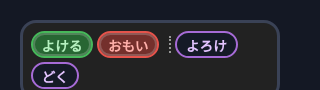
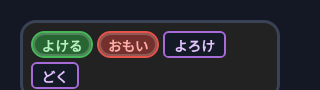
remake：点線の すきま を やめ、パーツから 来た バッジは 角を 四角く（確認役：点線が 行の 頭に 出る・1つ目に しか つかない）。ことばの 見本も まる／しかく
Claude-Session: https://claude.ai/code/session_01MmzYoRRAtihK5d776Mdcdp

diff --git a/remake/index.html b/remake/index.html
@@ -45,7 +45,7 @@ h2 { margin:.2rem 0 .5rem; font-size:1.3rem; }
 .kw { border-radius:999px; padding:.1rem .55rem; font-size:.85rem; font-weight:900; border:2px solid; background:#151a27; cursor:help; }
 .kw.atk { border-color:var(--atk); color:#ffb0aa; } .kw.def { border-color:var(--def); color:#b4d3ff; } .kw.mov { border-color:var(--mov); color:#b5f0bf; } .kw.luck { border-color:var(--luck); color:#ffe9a0; } .kw.st { border-color:var(--st); color:#e3c4ff; }
 .kw.born { box-shadow: 0 0 0 2px #fff3 inset; } /* 10-31 うまれつきは 中を ぬる（パーツから 来た バッジは わくだけ。確認役：見分けにくい） */
-.kw.born + .kw:not(.born) { margin-left:.75rem; position:relative; } .kw.born + .kw:not(.born)::before { content:''; position:absolute; left:-.5rem; top:12%; bottom:12%; border-left:2px dotted #fff8; } /* 11-01 確認役：うまれつき（ぬり）と パーツから（わく）の あいだに 点線の すきま（カゲネコの「おもい」を しっぽの せいと 思わない ように） */
+.kws .kw:not(.born) { border-radius:.35rem; } /* 11-01 確認役：パーツから 来た バッジは 角を 四角く（原則 11：パーツは 四角い 札・うまれつきは 丸い）。カゲネコの「おもい」（うまれつき）を しっぽの せいと 思わない ように */
 .kw.born.atk { background:#74302c; } .kw.born.def { background:#264f86; } .kw.born.mov { background:#276633; } .kw.born.luck { background:#6e5a14; } .kw.born.st { background:#5a3779; }
 /* はじめての ことば：ひとこと（MTG の 注釈文。3戦 会ったら 消える） */
 .kw.knew { white-space:nowrap; }
@@ -470,7 +470,7 @@ body[data-scr="title"] #tip { display:none; } /* タイトルには カードも
   function drawKotoba() {
     SEEN = kwSeen();
     $('kotLeg').innerHTML = KW_GROUPS.map(function (g) { return '<span class="kw ' + g.id + '">' + g.name + '</span>'; }).join('') +
-      '<span class="kw def born">ぬり＝うまれつき</span><span class="kw def">わく＝パーツから</span>'; // 10-31 確認役：ぬりと わくの 見本
+      '<span class="kw def born">まる・ぬり＝うまれつき</span><span class="kw def" style="border-radius:.35rem">しかく・わく＝パーツから</span>'; // 10-31 確認役：ぬりと わくの 見本。11-01：パーツから は 角が 四角
     var h = '';
     KW_GROUPS.forEach(function (g) { S.KW.filter(function (k) { return k.role === g.id; }).forEach(function (k) {
       var n = SEEN[k.id] || 0;
